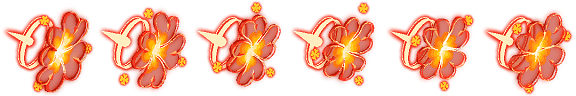
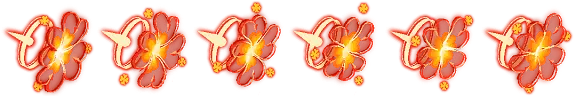
继续减重：光标 156KB→68KB，HTML 网络慢时先用缓存
接着上一轮（看板娘懒加载 + 樱花树压缩）。

一、光标精灵图重压（同尺寸、同帧数，只降编码质量）
   klee-pointer 78→30KB、unavailable 56→25KB、link 12→6KB、text 9→7KB
   合计 156→68KB，省 88KB。三倍放大对比过，48px 实际显示看不出差别。

二、SW 的 HTML 从「纯网络优先」改成「网络优先 + 1.5s 超时兜底」
   原来每次打开都要等一跳 github.io，国内实测 0.7~5.6s 波动，这就是
   「主页有时要转半天」的直接原因。
   现在：有缓存时最多等 1.5s，超时先把上一版给出去（网络那份继续跑、
   回来照样写缓存）；没有缓存时行为不变。
   ★ 顺带修了个隐藏 bug：HTML 原来按完整 URL（含 ?m=/?t=）存缓存，
     换个查询串就永远不命中，兜底等于白写。现在按「源 + 路径」存，
     没缓存的老访客、换了形态的访问都能命中。
   安全网：ui.js 那道版本自检（load 后比对 theme.css?v=，不一致带 ?r= 重载）
   仍在，最坏情况是「先看到上一版，几秒后自己跳成新版」，不会卡死旧页。

实测（本地 4s 延迟的慢服务器）：首屏 4.4s → 1.5s。
配套 ASSET 缓存 v7 → v8（光标同名换内容）。

回归：check-v6 137/138（唯一失败是外部跳转抽查）、check-align 21/0、check-viz 48/0。

diff --git a/sw.js b/sw.js
@@ -46,12 +46,19 @@ const CODE = 'dyg-code-' + V;   /* HTML / CSS / JS：随代码版本走 */
    v3 → v4：音乐重编码成 Opus 立体声 40k，并换了一首（删《晚祷的钟声》、
    加《乐园漫记》）。内容变了必须手动加一，否则老访客的 Cache Storage 里
    一直是旧音频 —— 那个缓存是按文件名存的，同名换内容它根本不知道。 */
-const ASSET = 'dyg-asset-v7';   /* 图片 / 字体 / 音频：不随代码版本走，
+const ASSET = 'dyg-asset-v8';   /* 图片 / 字体 / 音频：不随代码版本走，
                                    只有这些文件真的换内容了才手动把 -vN 加一 */
 
 /* GitHub Pages 的 HTTP 缓存头改不了，固定 max-age=600。
    在这窗口里 SWR 没有意义：拉回来的一定是同一份字节。 */
 const FRESH_MS = 10 * 60 * 1000;
+
+/* HTML 宁可稍旧也不要让用户干等：网络超过这个时间就先把缓存那页给出去，
+   网络那份继续在后台跑、跑完照样写进缓存，下一次打开就是新的。
+   为什么敢这么做：ui.js 里有一道版本自检 —— 页面 load 之后会悄悄取一次
+   最新 HTML 比对 theme.css?v=，对不上就带 ?r= 重载一次。所以最坏情况是
+   「先看到上一版，几秒后自己跳成新版」，而不是「一直看到旧的」。 */
+const HTML_TIMEOUT = 1500;
 
 /* 页面 idle 后慢慢补的资源。
  *
@@ -208,18 +215,40 @@ self.addEventListener('fetch', e => {
          断网时才回落到缓存。流过的那份顺手存进 CODE。 ---- */
   if (wantsHtml) {
     e.respondWith((async () => {
+      const c = await caches.open(CODE);
+      /* 用「源 + 路径」当键，丢掉查询串。
+         HTML 的内容跟 ?m= / ?t= 这些参数无关（形态是 JS 在运行时决定的），
+         而按完整 URL 存的话，?m=start 与 ?m=blog 在缓存里是两份、
+         带个随机参数就永远命中不了 —— 超时兜底等于白写。 */
+      let htmlKey = req.url;
+      try { const u = new URL(req.url); htmlKey = u.origin + u.pathname; } catch (e) {}
+      let cached = null;
+      try { cached = await c.match(htmlKey); } catch (e) {}
+
+      /* ★ cache:'no-cache' 是关键，别去掉。
+         GitHub Pages 给 HTML 固定 max-age=600，默认 fetch 会直接吃浏览器 HTTP
+         缓存 —— 十分钟内 F5 拿到的还是旧 HTML，里面带着旧的 ?v=，于是加载的
+         还是旧 CSS / 旧 JS。表现就是「改了代码，用户刷新还是老样子」，
+         非得 Ctrl+Shift+R 才看得到。no-cache 是「每次向服务器校验」，
+         没变时回 304，代价很小。 */
+      const netP = fetch(req, { cache: 'no-cache' })
+        .then((r) => { if (r && r.ok) putByUrl(c, htmlKey, r.clone()); return r; });
+
+      /* 有缓存时：网络优先，最多等 HTML_TIMEOUT。
+         超时就把手里这份先给出去（线路抖的时候，这一下能省 2~5 秒），
+         网络那份不取消，回来后照常写缓存。 */
+      if (cached) {
+        const win = await Promise.race([
+          netP.catch(() => null),
+          new Promise((r) => setTimeout(() => r(null), HTML_TIMEOUT))
+        ]);
+        if (win) return win;
+        return cached;
+      }
+
       try {
-        /* ★ cache:'no-cache' 是关键，别去掉。
-           GitHub Pages 给 HTML 固定 max-age=600，默认 fetch 会直接吃浏览器 HTTP
-           缓存 —— 十分钟内 F5 拿到的还是旧 HTML，里面带着旧的 ?v=，于是加载的
-           还是旧 CSS / 旧 JS。表现就是「改了代码，用户刷新还是老样子」，
-           非得 Ctrl+Shift+R 才看得到。no-cache 是「每次向服务器校验」，
-           没变时回 304，代价很小。 */
-        const net = await fetch(req, { cache: 'no-cache' });
-        put(await caches.open(CODE), req, net.clone());
-        return net;
+        return await netP;
       } catch (err) {
-        const c = await caches.open(CODE);
         const hit = (await c.match(req)) ||
                     (await c.match('./index.html')) ||
                     (await c.match('index.html'));
